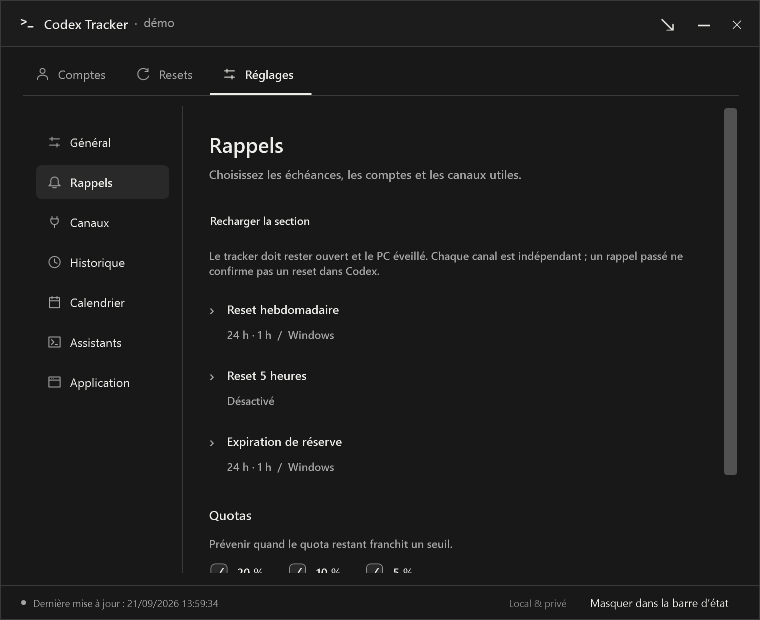
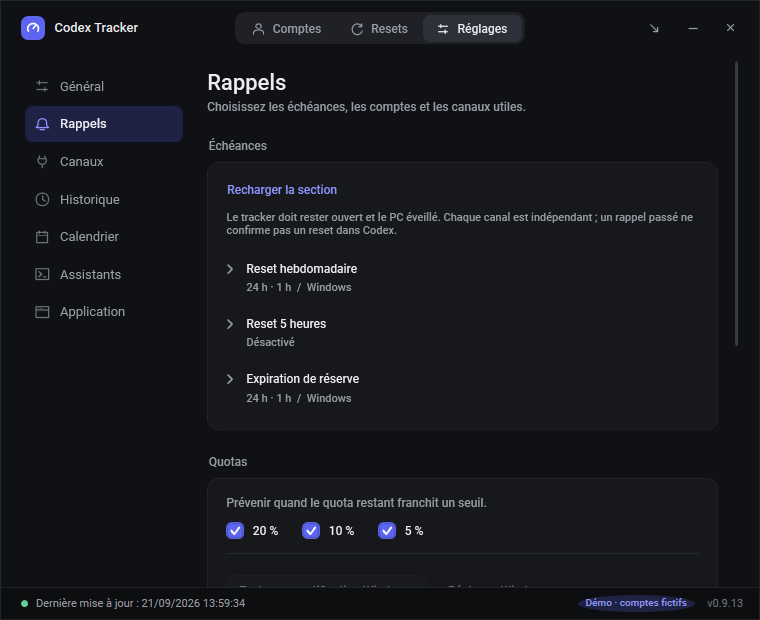
Vulgariser le README et publier le correctif (0.9.15)
README orienté utilisateur avec image vitrine fictive, captures de la
documentation au nouveau design et cadence des mises à jour corrigée dans
la page confidentialité.

diff --git a/README.md b/README.md
@@ -1,53 +1,79 @@
 <h1 align="center">Codex Tracker</h1>
-<p align="center">Vos quotas Codex et Claude Code, vos resets et vos rappels — dans la barre des tâches Windows.</p>
-<p align="center"><a href="https://github.com/Aleqsd/codex-tracker/releases/download/v0.9.14/CodexTracker-0.9.14-Setup.exe"><strong>⬇ Télécharger pour Windows</strong></a> · <a href="https://github.com/Aleqsd/codex-tracker/releases">Toutes les versions</a></p>
-<p align="center">Windows 11 · x64 · Gratuit · Données locales — avec Codex ou Claude Code installé</p>
-<p align="center"><sub>0.9.14 · nouveau design et animations</sub></p>
+<p align="center"><strong>Sachez toujours combien il vous reste de Codex et de Claude Code.</strong><br>Votre quota, l’heure de la prochaine recharge et un rappel au bon moment, directement dans la barre des tâches Windows.</p>
+<p align="center"><a href="https://github.com/Aleqsd/codex-tracker/releases/download/v0.9.15/CodexTracker-0.9.15-Setup.exe"><strong>⬇ Télécharger pour Windows</strong></a> · <a href="https://github.com/Aleqsd/codex-tracker/releases">Toutes les versions</a></p>
+<p align="center"><sub>Gratuit · Windows 11 x64 · Sans compte ni serveur · Version 0.9.15</sub></p>
 
-![Tour rapide de Codex Tracker : comptes, semaine, agenda, rappels, thèmes et assistants](docs/tour.gif)
-<p align="center"><sub>Démonstration avec des comptes fictifs. <a href="docs/resets-week.png">Aperçu statique</a></sub></p>
+<p align="center"><img src="docs/hero.png" alt="Codex Tracker : tableau de bord sombre, semaine des recharges en clair et aperçu de la barre des tâches, avec des comptes fictifs" width="880"></p>
 
-## Commencer en une minute
+## En deux mots
 
-1. **Installez** le fichier `Setup.exe` ci-dessus. Aucun runtime ni droit administrateur à ajouter.
-2. **Ouvrez Codex.** Le tracker détecte le compte connecté. Vos autres comptes apparaissent quand vous les utilisez dans Codex.
-3. **Gardez l’icône dans la barre d’état.** Survolez-la pour un aperçu, cliquez pour ouvrir le tableau de bord.
+Codex et Claude Code limitent votre usage : un quota sur **5 heures** et un autre sur **la semaine**. Une fois épuisé, il faut attendre qu’il se recharge, et rien ne vous dit clairement où vous en êtes.
 
-Le bouton **flèche vers le coin**, à côté de **—**, masque le tracker dans la barre d’état et le retire de la barre des tâches. Le suivi continue.
+Codex Tracker répond à trois questions, sans rien configurer :
 
-## L’essentiel, en un coup d’œil
+- **Combien il me reste ?** Le pourcentage s’affiche dans l’icône de la barre des tâches. Survolez-la pour le détail.
+- **Quand ça se recharge ?** L’heure exacte de chaque recharge, pour chaque compte, en liste ou sur la semaine.
+- **Lequel de mes comptes utiliser ?** Tous vos comptes Codex et Claude Code côte à côte, personnels comme professionnels.
 
-- **📊 Comptes** — quota hebdomadaire dans l’icône, offre, réserves et dernier relevé pour chaque compte.
-- **📅 Resets** — agenda ou grille de la semaine, filtres par compte/type et réserve qui expire en premier.
-- **🔔 Rappels** — notifications Windows avant un reset ou l’expiration d’une réserve, aux délais de votre choix.
-- **🎨 À votre goût** — thème clair/sombre, noms et avatars personnalisés. Import des échéances dans Google Agenda.
+## Ce que vous obtenez
 
-**Claude est aussi détecté automatiquement.** L’application Claude fournit ses derniers quotas locaux sans réglage. Les comptes personnels et d’entreprise restent distincts, même avec la même adresse. Pour le terminal, un réglage est proposé dans **Réglages → Général → Claude Code**. [Sources et limites](docs/CLAUDE-CODE.md).
+<table>
+<tr>
+<td width="50%" valign="top"><img src="docs/dashboard.png" alt="Tableau de bord avec comptes fictifs"><br><strong>Vos comptes d’un coup d’œil.</strong> Un anneau par compte actif, une barre pour chacun des autres et la date de leur dernier relevé.</td>
+<td width="50%" valign="top"><img src="docs/resets-week.png" alt="Semaine des recharges avec comptes fictifs"><br><strong>Le calendrier des recharges.</strong> Les prochaines recharges jour par jour, et les crédits de reset Codex en réserve avec leur date d’expiration.</td>
+</tr>
+<tr>
+<td width="50%" valign="top"><img src="docs/reminders.png" alt="Réglages des rappels avec comptes fictifs"><br><strong>Prévenu au bon moment.</strong> Une notification Windows avant une recharge, sous 20, 10 ou 5 % de quota, ou quand un autre compte vient de se recharger.</td>
+<td width="50%" valign="top"><img src="docs/settings.png" alt="Réglages généraux, démonstration"><br><strong>Discret et à votre goût.</strong> Thème clair ou sombre comme Windows, noms et photos pour vos comptes, export vers Google Agenda.</td>
+</tr>
+</table>
 
-**Un reset général Codex a eu lieu ?** Cliquez sur **Reset Codex…**, saisissez sa date et son heure : les comptes sans relevé plus récent affichent **100 % · déclaré**. Les relevés restent conservés ; Claude Code n’est pas concerné.
+<p align="center"><img src="docs/tour.gif" alt="Tour rapide : comptes, semaine, recharges, rappels, thème clair et assistants" width="760"><br><sub>Toutes les images utilisent des comptes fictifs.</sub></p>
 
-## Bon à savoir
+## Installer en trois étapes
 
-**Seul le compte actif de chaque outil est actualisé**. Codex est interrogé toutes les deux minutes par défaut. Les autres conservent leur dernier relevé daté. Une date ou une valeur absente reste inconnue.
+1. **Téléchargez et lancez** l’installateur ci-dessus. Pas de droits administrateur, rien d’autre à installer.
+2. **Utilisez Codex ou Claude Code comme d’habitude.** Le compte connecté apparaît tout seul. Vos autres comptes s’ajoutent quand vous les ouvrez.
+3. **Gardez l’icône visible** : glissez-la depuis la flèche ^ de la barre des tâches. Fermer la fenêtre la range simplement à côté de l’horloge ; le suivi continue.
 
-**Un autre compte a probablement récupéré son quota ?** Une notification Windows et un encart le signalent après son échéance. **≈100 % — estimé** reste à confirmer en ouvrant ce compte dans Codex ; le dernier quota mesuré est conservé au survol.
+Les mises à jour se téléchargent seules ; un bouton **Mettre à jour et relancer** apparaît quand une version est prête.
 
-**Reset général annoncé par l’équipe Codex :** les annonces reconnues sont vérifiées auprès de leur source originale. Les comptes concernés affichent une estimation temporaire, avec date et liens dans **Resets**. Désactivation dans **Réglages → Rappels** ; [fonctionnement et limites](docs/GLOBAL-RESETS.md).
+## Vos données restent chez vous
 
-**Les rappels nécessitent un PC éveillé et le tracker ouvert.** Le démarrage avec Windows est facultatif. Aucun service distant n’est nécessaire pour les notifications Windows.
+- **Rien à créer, rien à partager.** Pas d’inscription, pas de serveur : tout est enregistré sur votre PC.
+- **Aucun mot de passe demandé.** Le tracker lit les quotas que Codex et Claude Code connaissent déjà. Il ne lit pas vos conversations et ne change jamais de compte à votre place.
+- **Peu de connexions, et choisies.** Il recherche les mises à jour sur GitHub et, si vous le laissez faire, les annonces publiques de reset général. Les deux se désactivent dans les réglages.
 
-**Les options avancées restent facultatives.** Vous pouvez connecter vos propres comptes Twilio/SendGrid pour SMS, appels et emails, ou activer le [MCP local](docs/MCP.md) pour votre assistant. Ces options sont désactivées par défaut ; les frais éventuels dépendent de vos prestataires.
+Le détail est dans la [page confidentialité](docs/PRIVACY.md).
 
-## Installer autrement ou aller plus loin
+<details>
+<summary><strong>Questions fréquentes</strong></summary>
 
-- **Sans installation :** prenez le ZIP portable dans les [Releases](https://github.com/Aleqsd/codex-tracker/releases). Le petit fichier `.sha256` sert aux mises à jour automatiques ; vous pouvez l’ignorer.
-- **Mises à jour :** téléchargement automatique, puis bouton **Mettre à jour et relancer** ou installation au prochain démarrage. **Réglages → Application** permet aussi de recevoir les préversions ; seules les versions stables sont recherchées par défaut.
-- **WinGet :** [publication soumise à Microsoft](docs/WINGET.md), identifiant prévu `Aleqsd.CodexTracker`.
-- [Guide d’utilisation](docs/UTILISATION.md) · [Confidentialité](docs/PRIVACY.md) · [Signaler un problème](https://github.com/Aleqsd/codex-tracker/issues)
+**Pourquoi seul le compte ouvert est-il mis à jour ?**
+Le tracker lit le compte actif dans Codex et dans Claude. Les autres gardent leur dernier relevé, toujours daté. Quand l’heure de recharge d’un compte inactif est passée, il l’affiche comme « probablement rechargé », à confirmer en ouvrant ce compte.
 
-Un problème ? **Réglages → Application → Préparer un diagnostic** donne un aperçu sans comptes ni secrets, à copier dans votre signalement.
+**Faut-il laisser l’application ouverte ?**
+Pour les rappels, oui : elle reste discrète dans la barre des tâches et peut démarrer avec Windows. Le PC doit être allumé.
 
-[Code signing policy](docs/CODE-SIGNING-POLICY.md) — les exécutables actuels ne sont pas encore signés. Aucun service de signature n’est activé.
+**Et Claude Code dans le terminal ?**
+L’application Claude est détectée automatiquement. Pour le terminal, copiez le réglage proposé dans **Réglages → Général → Claude Code**. [Sources et limites](docs/CLAUDE-CODE.md).
+
+**OpenAI a rechargé tous les quotas d’un coup ?**
+Cliquez sur **Reset Codex…** et indiquez l’heure. Les comptes concernés affichent « 100 % · déclaré » jusqu’au prochain relevé réel. Les annonces publiques reconnues sont aussi signalées automatiquement ([fonctionnement](docs/GLOBAL-RESETS.md)).
+
+**C’est payant ?**
+Non. Seuls les SMS, appels et emails, facultatifs, passent par vos propres comptes Twilio ou SendGrid et suivent leurs tarifs.
+
+</details>
+
+## Pour aller plus loin
+
+- **Sans installation** : le ZIP portable est dans les [versions publiées](https://github.com/Aleqsd/codex-tracker/releases). Son petit fichier `.sha256` sert aux mises à jour automatiques.
+- **Assistants de code** : un [serveur MCP local](docs/MCP.md), désactivé par défaut, permet à votre assistant de consulter vos quotas.
+- **WinGet** : [publication soumise à Microsoft](docs/WINGET.md), identifiant prévu `Aleqsd.CodexTracker`.
+- [Guide d’utilisation complet](docs/UTILISATION.md) · [Signaler un problème](https://github.com/Aleqsd/codex-tracker/issues). **Réglages → Application → Préparer un diagnostic** produit un résumé sans compte ni secret à joindre à votre signalement.
+
+[Code signing policy](docs/CODE-SIGNING-POLICY.md) : les exécutables actuels ne sont pas encore signés. Windows peut donc afficher un avertissement SmartScreen au premier lancement.
 
 <details>
 <summary>Développer ou contribuer</summary>
@@ -65,4 +91,4 @@ Les aperçus utilisent exclusivement des données fictives. Voir la [validation]
 
 ---
 
-Projet indépendant, non affilié à OpenAI ou Anthropic. Licence [MIT](LICENSE).
+<sub>Projet indépendant, non affilié à OpenAI ni à Anthropic. Codex et Claude sont des marques de leurs propriétaires respectifs. Licence [MIT](LICENSE).</sub>

diff --git a/docs/DESIGN.md b/docs/DESIGN.md
@@ -53,6 +53,8 @@ Le choix Liste / Semaine utilise `ResetKindFilter`. La semaine présente sept jo
 
 ## Tour animé du README
 
+`docs/hero.png` assemble trois rendus fictifs (Comptes sombre, Semaine claire, aperçu de la barre d’état) avec coins arrondis et ombres, sur fond transparent pour les deux thèmes de GitHub. Les captures de `docs/` utilisées par le README et le guide proviennent des mêmes rendus hors écran.
+
 Après les aperçus normaux à 96 DPI, `python scripts/tour.py` (Pillow) assemble six écrans fictifs : Comptes, Semaine, Resets, Rappels, Général en clair et Assistants. Chaque écran reste 1,8 seconde, avec une transition de 120 ms, des légendes courtes et une progression discrète. Le GIF utilise une palette commune et une boucle de 11,52 secondes. Ne jamais utiliser des captures des comptes réels.
 
 ## Plusieurs outils et reset déclaré
